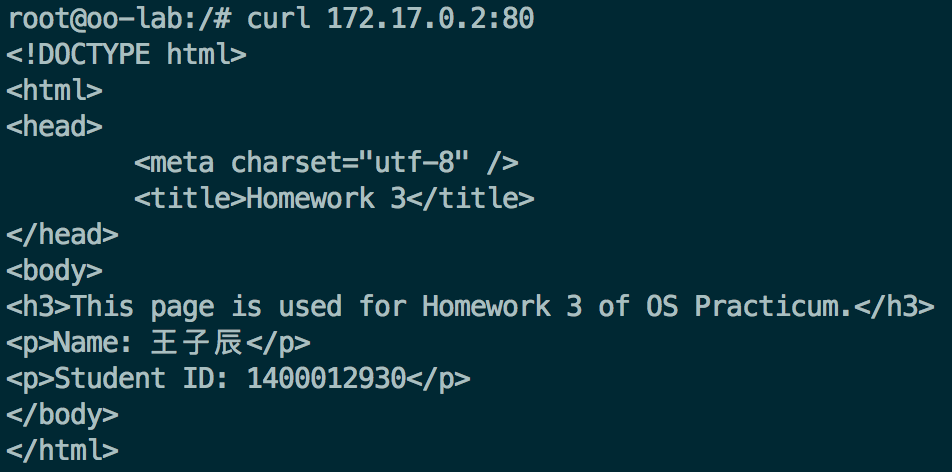
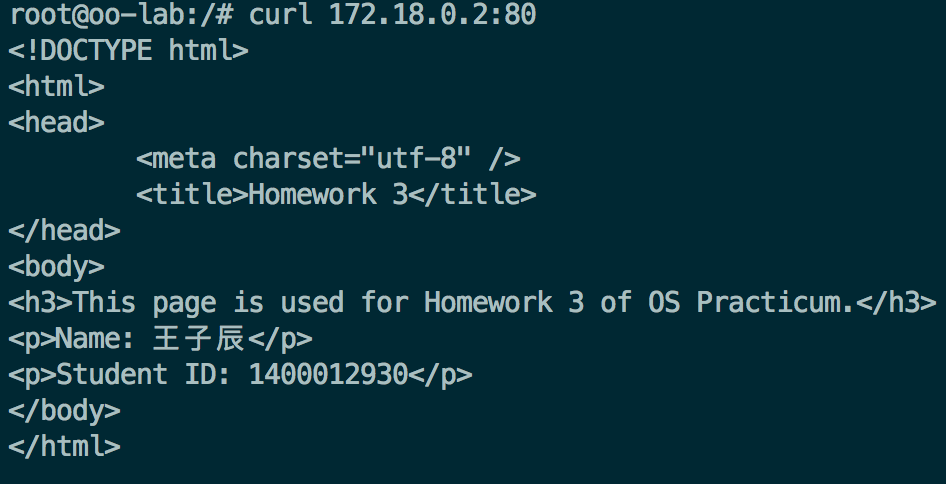
hw3

Changed region(s): [[0.0, 0.4449, 1.0, 0.9788], [0.0, 0.0, 0.5825, 0.2966], [0.1226, 0.2966, 0.5825, 0.4449]]

diff --git a/Homework 3/README.md b/Homework 3/README.md
@@ -327,6 +327,34 @@
 
 ---
 
+### 6. 容器命令 docker exec
+#### 含义
+ * 在一个运行中的容器中执行新的命令。
+
+#### 用法
+ * `docker exec [OPTIONS] CONTAINER COMMAND [ARG...]`
+
+#### 选项
+```
+-d, --detach         分离模式：在后台运行命令。
+--detach-keys        为分离后的容器重写钥匙序列。
+--help               打印帮助。
+-i, --interactive    没有被依附的情况下保持标准输入的依附。
+--privileged         为容器提供一些特权，默认是关闭。开启时容器可以访问到任何的设备，可以访问到容器外的任何内容。
+-t, --tty            为容器分配一个虚假的TTY控制台。
+-u, --user           用户名，格式：<名称|uid>[:<组名称|gid>]
+```
+
+#### CONTAINER 和 COMMAND 含义同上
+
+#### 例子
+1. `docker exec -it my_container /bin/bash` <br />
+在运行中的my_container容器中打开一个新的控制台，并保持输入依附。
+2. `docker exec my_container cat /etc/hosts` <br />
+在运行中的my_container容器中输出`/etc/hosts`的内容。
+
+
+
 ## 创建镜像并搭建服务器
 ### 创建一个基础镜像为ubuntu的docker镜像
 命令：`root@oo-lab:/# docker run -i -t --name homework -p 9999:80 ubuntu /bin/bash` <br />
@@ -365,12 +393,42 @@ root@578f606816b5:/# apt install nginx -y
  * 命令：`root@oo-lab:/# docker network create -d bridge my-bridge-network`
  * 当前网络定义情况为：
 ![](https://github.com/wzc1995/OperatingSystemLab/blob/master/Homework%203/picture/network.png)
+ * 新定义的bridge网络配置为：
+![](https://github.com/wzc1995/OperatingSystemLab/blob/master/Homework%203/picture/customNetwork.png)
 
 ### 让自己配的web服务器容器连到这一网络中
-命令：`root@oo-lab:/# docker network connect my-bridge-network http_server`
+* 由于Docker容器创建的时候会自动加入Docker自带的默认bridge网络，该网络的子网为`172.17.0.1`，首先从容器中断掉这个网络（非必须）<br />
+`root@oo-lab:/# docker network disconnect bridge http_server`
+* 加入自己定义的network：`root@oo-lab:/# docker network connect my-bridge-network http_server`
 
 ### 通过宿主机访问容器内的web服务器
- * 先通过`root@oo-lab:/# ps -ef`查看web服务器容器的IP地址为`172.17.0.2`。
- * 宿主机访问web服务器命令：`root@oo-lab:/# curl 172.17.0.2:80`
+ * 先通过`root@oo-lab:/# docker exec http_server cat /etc/hosts`查看web服务器容器的IP地址为`172.18.0.2`。
+ * 宿主机访问web服务器命令：`root@oo-lab:/# curl 172.18.0.2:80`
  * 返回结果：
 ![](https://github.com/wzc1995/OperatingSystemLab/blob/master/Homework%203/picture/curl.png)
+
+---
+
+## Docker容器网络模式
+### bridge模式
+ * 在默认情况下，docker会在宿主机上建立一个`docker0`的网桥，相当于一个虚拟的交换机，所有的容器在默认情况下会连接到这个虚拟的交换机上。
+ * docker在安装后也会自动创建一个自带的bridge网络配置，用`docker network inspect bridge`可以看到这个网络配置的详细信息。其中发现这个网络创建的一个子网就是`172.17.0.1/16`，容器在默认情况下会自动加入这个子网。加入后容器可以通过这个网关将数据包转发到主机的网卡上，进而连接外网。
+ * bridge模式的网络可以创建多个。当docker操作者新创建一个bridge时，其网关也会变化，如创建后的`my-bridge-network`网关为`172.18.0.1/16`。
+ * 在同一个bridge中的容器网络可以互通，宿主机也可以ping处在bridge网络的容器。
+ * 容器可以加入多个bridge网络，通过`docker network connect`或`docker network disconnect`来可以自由连接或断开bridge网络。
+
+### host模式
+ * 在这个模式下，docker不会为容器创建单独的网络命名空间namespace，而是共享主机的network namespace。也就是说：容器可以直接访问主机上所有的网络信息。
+ * 这个模式的网络仅可以创建一个，即docker安装时已经创建好的host。
+ * 让容器运行在host模式，可以在启动容器的命令行添加`--network host`，即`root@oo-lab:/# docker run -it --network host ubuntu /bin/bash`。
+ * 进入后的配置完全和主机一样，终端的前缀提示符也完全一样，显示是`root@oo-lab`。一开始我还很困惑为什么没有反应，结果是已经进入了该容器内。
+ * 一旦容器连接到了host模式，就不能再连接到其他模式和断开host模式，即不能通过`docker network connect`或`docker network disconnect`来操作该容器的网络。
+ * 这种模式最大的缺点是：容器都是直接共享主机网络空间的，如果出现任何的网络冲突都会出错，比如在这个模式下无法启动两个都监听在80端口的容器。
+
+### null模式
+ * 这种模式正如它的名字说明的那样：不做配置。容器有自己的`network namespace`，但是没有做任何的网络配置，仅仅有本地回环网络`127.0.0.1`。
+ * 这个模式的网络仅可以创建一个，即docker安装时已经创建好的none。
+ * 让容器运行在null模式，可以在启动容器的命令行添加`--network none`，即`root@oo-lab:/# docker run -it --network none ubuntu /bin/bash`。
+ * 和host模式类似，一旦容器连接到了null模式，就不能再连接到其他模式和断开null模式，即不能通过`docker network connect`或`docker network disconnect`来操作该容器的网络。
+
+### overlay模式
